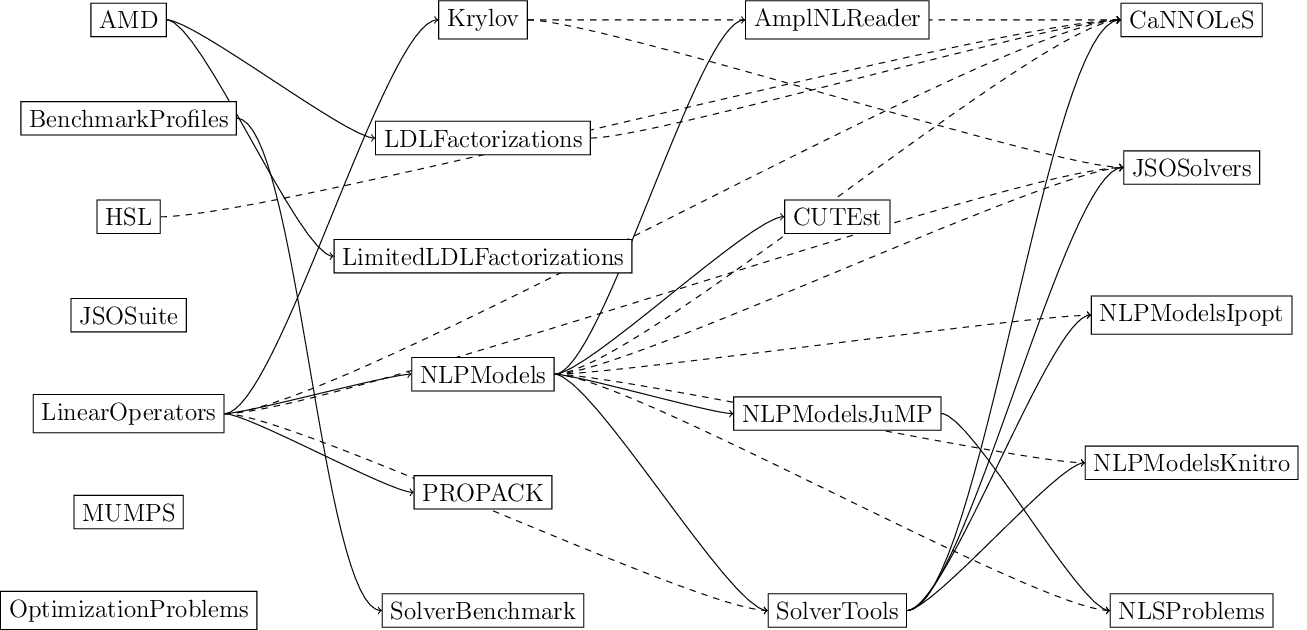
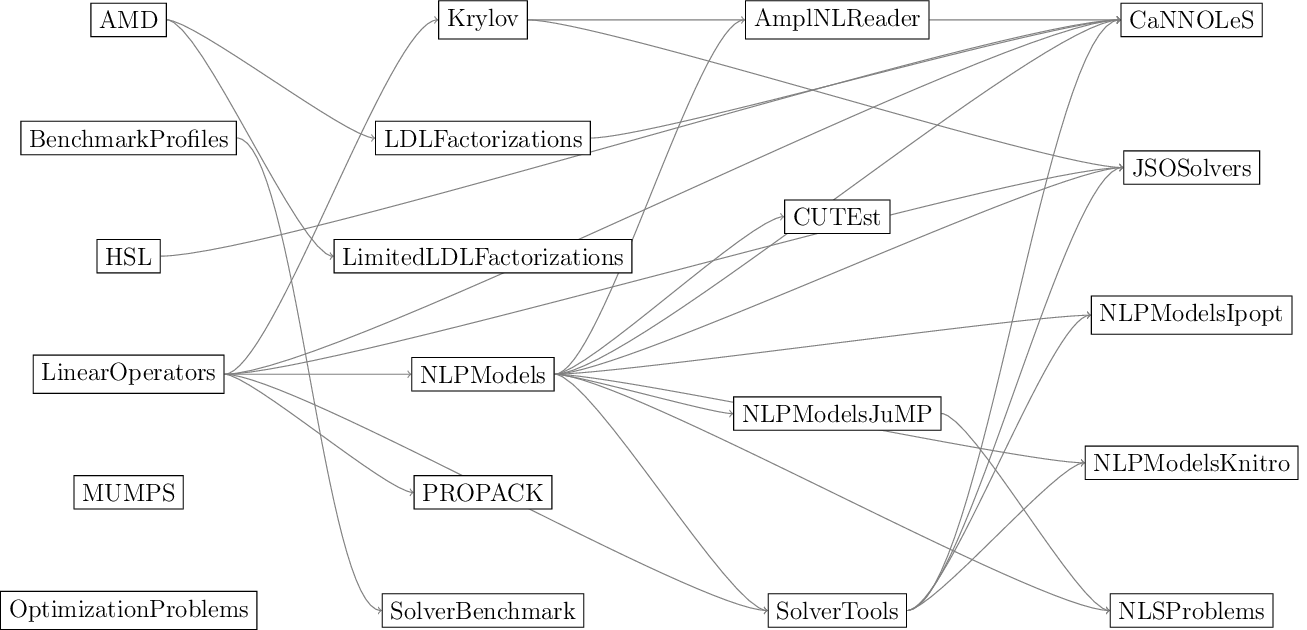
Better lines

diff --git a/tree.tex b/tree.tex
@@ -1,10 +1,9 @@
 \begin{tikzpicture}
 \node[draw,fill=white] (amd) at (0,0.0) {AMD};
-\node[draw,fill=white] (benchmarkprofiles) at (0,-1.6666666666666667) {BenchmarkProfiles};
-\node[draw,fill=white] (hsl) at (0,-3.3333333333333335) {HSL};
-\node[draw,fill=white] (jsosuite) at (0,-5.0) {JSOSuite};
-\node[draw,fill=white] (linearoperators) at (0,-6.666666666666667) {LinearOperators};
-\node[draw,fill=white] (mumps) at (0,-8.333333333333334) {MUMPS};
+\node[draw,fill=white] (benchmarkprofiles) at (0,-2.0) {BenchmarkProfiles};
+\node[draw,fill=white] (hsl) at (0,-4.0) {HSL};
+\node[draw,fill=white] (linearoperators) at (0,-6.0) {LinearOperators};
+\node[draw,fill=white] (mumps) at (0,-8.0) {MUMPS};
 \node[draw,fill=white] (optimizationproblems) at (0,-10.0) {OptimizationProblems};
 \node[draw,fill=white] (krylov) at (6,0.0) {Krylov};
 \node[draw,fill=white] (ldlfactorizations) at (6,-2.0) {LDLFactorizations};
@@ -22,32 +21,32 @@
 \node[draw,fill=white] (nlpmodelsknitro) at (18,-7.5) {NLPModelsKnitro};
 \node[draw,fill=white] (nlsproblems) at (18,-10.0) {NLSProblems};
 \begin{scope}[on background layer]
-\draw[->,solid] (nlpmodels) to [in=180,out=0,looseness=0.3] (amplnlreader);
-\draw[->,solid] (nlpmodels) to [in=180,out=0,looseness=0.3] (cutest);
-\draw[->,dashed] (nlpmodels) to [in=180,out=0,looseness=0.3] (cannoles);
-\draw[->,dashed] (hsl) to [in=180,out=0,looseness=0.3] (cannoles);
-\draw[->,solid] (solvertools) to [in=180,out=0,looseness=0.3] (cannoles);
-\draw[->,dashed] (linearoperators) to [in=180,out=0,looseness=0.3] (cannoles);
-\draw[->,dashed] (krylov) to [in=180,out=0,looseness=0.3] (cannoles);
-\draw[->,dashed] (ldlfactorizations) to [in=180,out=0,looseness=0.3] (cannoles);
-\draw[->,dashed] (nlpmodels) to [in=180,out=0,looseness=0.3] (jsosolvers);
-\draw[->,solid] (solvertools) to [in=180,out=0,looseness=0.3] (jsosolvers);
-\draw[->,dashed] (linearoperators) to [in=180,out=0,looseness=0.3] (jsosolvers);
-\draw[->,dashed] (krylov) to [in=180,out=0,looseness=0.3] (jsosolvers);
-\draw[->,solid] (linearoperators) to [in=180,out=0,looseness=0.3] (krylov);
-\draw[->,solid] (amd) to [in=180,out=0,looseness=0.3] (ldlfactorizations);
-\draw[->,solid] (amd) to [in=180,out=0,looseness=0.3] (limitedldlfactorizations);
-\draw[->,solid] (linearoperators) to [in=180,out=0,looseness=0.3] (nlpmodels);
-\draw[->,dashed] (nlpmodels) to [in=180,out=0,looseness=0.3] (nlpmodelsipopt);
-\draw[->,solid] (solvertools) to [in=180,out=0,looseness=0.3] (nlpmodelsipopt);
-\draw[->,solid] (nlpmodels) to [in=180,out=0,looseness=0.3] (nlpmodelsjump);
-\draw[->,dashed] (nlpmodels) to [in=180,out=0,looseness=0.3] (nlpmodelsknitro);
-\draw[->,solid] (solvertools) to [in=180,out=0,looseness=0.3] (nlpmodelsknitro);
-\draw[->,dashed] (nlpmodels) to [in=180,out=0,looseness=0.3] (nlsproblems);
-\draw[->,solid] (nlpmodelsjump) to [in=180,out=0,looseness=0.3] (nlsproblems);
-\draw[->,solid] (linearoperators) to [in=180,out=0,looseness=0.3] (propack);
-\draw[->,solid] (benchmarkprofiles) to [in=180,out=0,looseness=0.3] (solverbenchmark);
-\draw[->,solid] (nlpmodels) to [in=180,out=0,looseness=0.3] (solvertools);
-\draw[->,dashed] (linearoperators) to [in=180,out=0,looseness=0.3] (solvertools);
+\draw[->,gray] (nlpmodels) to [in=180,out=0,looseness=0.3] (amplnlreader);
+\draw[->,gray] (nlpmodels) to [in=180,out=0,looseness=0.3] (cutest);
+\draw[->,gray] (nlpmodels) to [in=180,out=0,looseness=0.3] (cannoles);
+\draw[->,gray] (hsl) to [in=180,out=0,looseness=0.3] (cannoles);
+\draw[->,gray] (solvertools) to [in=180,out=0,looseness=0.3] (cannoles);
+\draw[->,gray] (linearoperators) to [in=180,out=0,looseness=0.3] (cannoles);
+\draw[->,gray] (krylov) to [in=180,out=0,looseness=0.3] (cannoles);
+\draw[->,gray] (ldlfactorizations) to [in=180,out=0,looseness=0.3] (cannoles);
+\draw[->,gray] (nlpmodels) to [in=180,out=0,looseness=0.3] (jsosolvers);
+\draw[->,gray] (solvertools) to [in=180,out=0,looseness=0.3] (jsosolvers);
+\draw[->,gray] (linearoperators) to [in=180,out=0,looseness=0.3] (jsosolvers);
+\draw[->,gray] (krylov) to [in=180,out=0,looseness=0.3] (jsosolvers);
+\draw[->,gray] (linearoperators) to [in=180,out=0,looseness=0.3] (krylov);
+\draw[->,gray] (amd) to [in=180,out=0,looseness=0.3] (ldlfactorizations);
+\draw[->,gray] (amd) to [in=180,out=0,looseness=0.3] (limitedldlfactorizations);
+\draw[->,gray] (linearoperators) to [in=180,out=0,looseness=0.3] (nlpmodels);
+\draw[->,gray] (nlpmodels) to [in=180,out=0,looseness=0.3] (nlpmodelsipopt);
+\draw[->,gray] (solvertools) to [in=180,out=0,looseness=0.3] (nlpmodelsipopt);
+\draw[->,gray] (nlpmodels) to [in=180,out=0,looseness=0.3] (nlpmodelsjump);
+\draw[->,gray] (nlpmodels) to [in=180,out=0,looseness=0.3] (nlpmodelsknitro);
+\draw[->,gray] (solvertools) to [in=180,out=0,looseness=0.3] (nlpmodelsknitro);
+\draw[->,gray] (nlpmodels) to [in=180,out=0,looseness=0.3] (nlsproblems);
+\draw[->,gray] (nlpmodelsjump) to [in=180,out=0,looseness=0.3] (nlsproblems);
+\draw[->,gray] (linearoperators) to [in=180,out=0,looseness=0.3] (propack);
+\draw[->,gray] (benchmarkprofiles) to [in=180,out=0,looseness=0.3] (solverbenchmark);
+\draw[->,gray] (nlpmodels) to [in=180,out=0,looseness=0.3] (solvertools);
+\draw[->,gray] (linearoperators) to [in=180,out=0,looseness=0.3] (solvertools);
 \end{scope}
 \end{tikzpicture}
